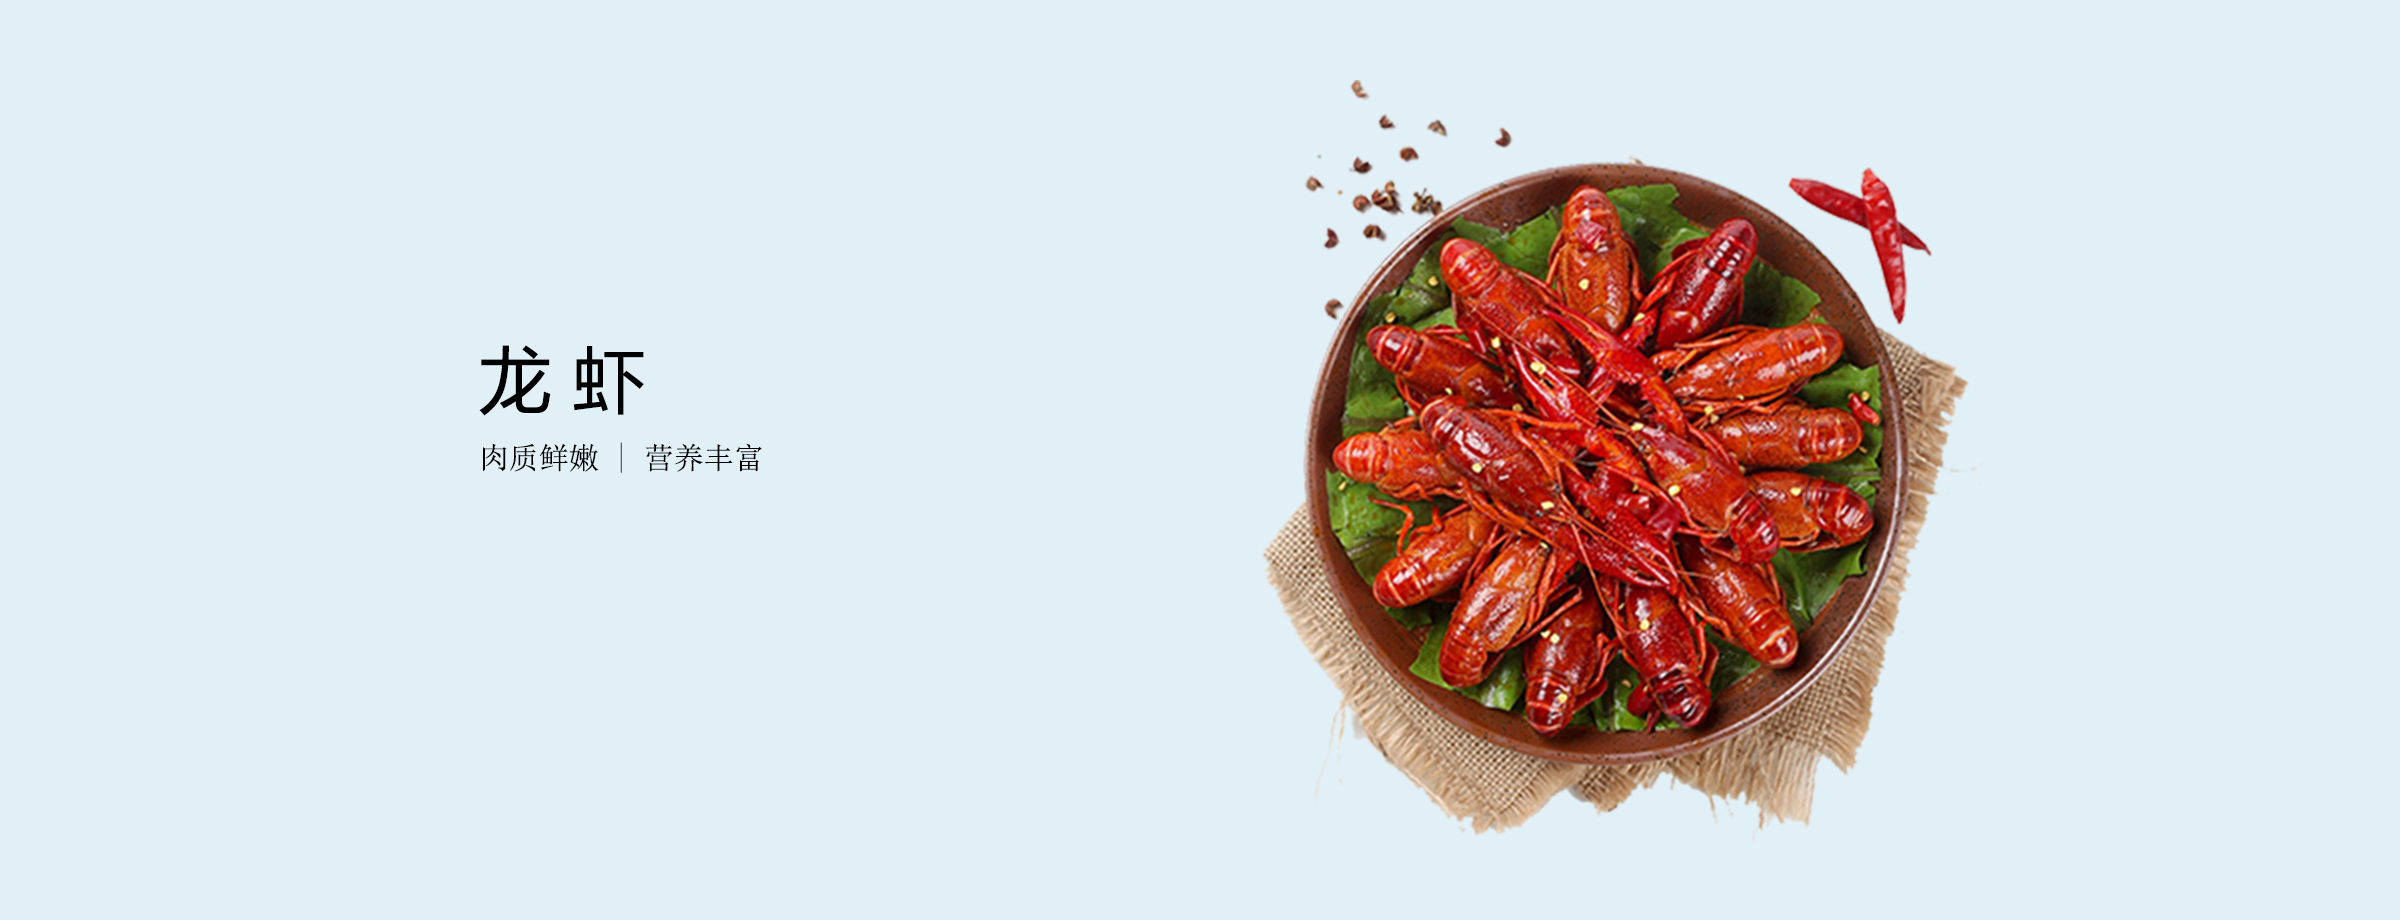
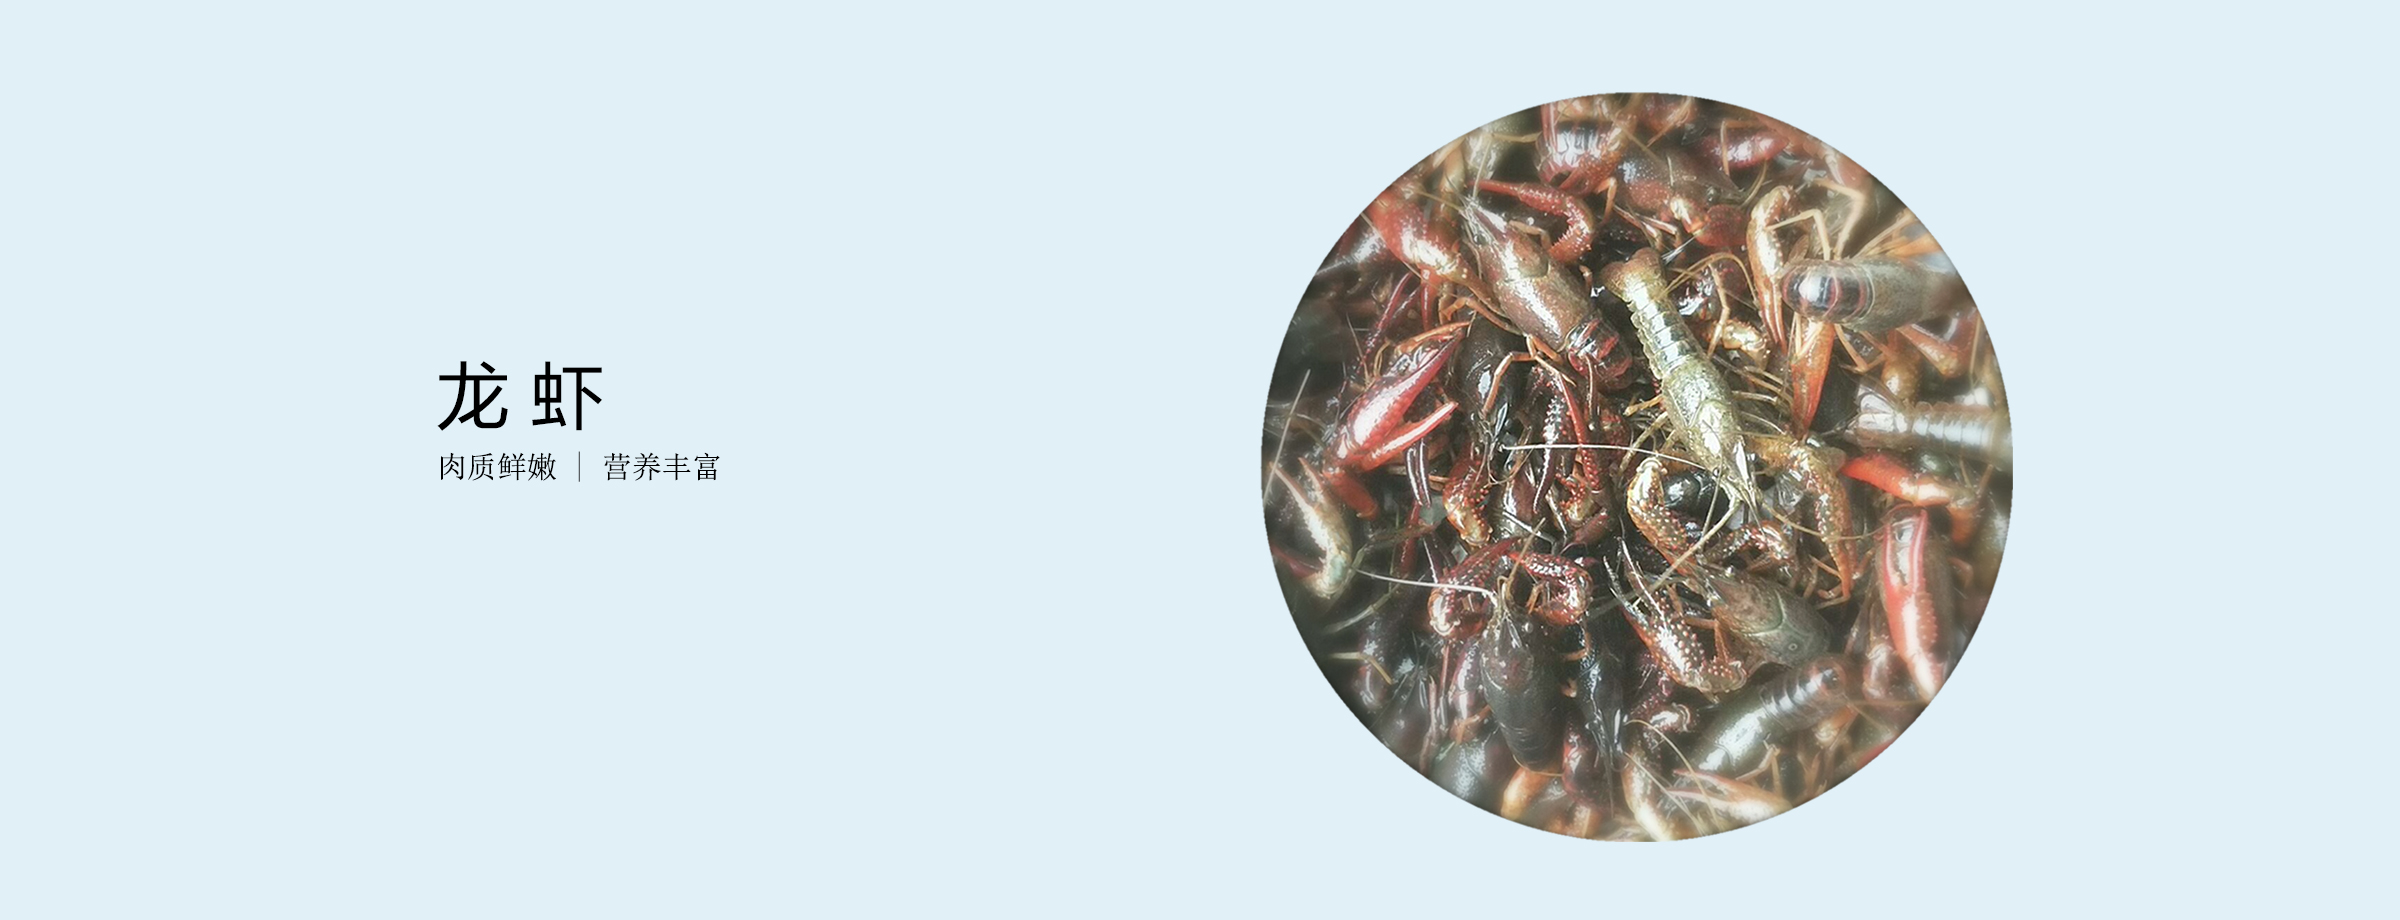
update

Changed region(s): [[0.5, 0.0913, 0.8438, 0.913], [0.1875, 0.3652, 0.3125, 0.5174]]

diff --git a/hotnews1.html b/hotnews1.html
@@ -1,0 +1,280 @@
+<!DOCTYPE html>
+<html lang="en">
+<head>
+    <meta http-equiv="X-UA-Compatible" content="IE=Edge" />
+    <meta charset="UTF-8" />
+    <title>寿县凤宇家庭农场</title>
+    <meta name="description" content="寿县凤宇家庭农场——休闲观光生态园，集龙虾养殖，虾稻共养、休闲观光于一体。销售热线：0554-3168588、173-6439-8856" />
+    <meta name="keywords" content="寿县,农场,龙虾,水稻,养殖" />
+    <meta name="viewport" content="width=1200">
+    <meta http-equiv="x-dns-prefetch-control" content="on">
+    <link rel="stylesheet" href="https://unpkg.com/element-ui/lib/theme-chalk/index.css">
+    <link rel="stylesheet" href="./css/index.css">
+</head>
+<body>
+<el-container id="app">
+    <el-header>
+        <el-row type="flex" justify="space-between">
+            <el-col :span="6">
+                <div>销售热线：0554-3168588、173-6439-8856</div>
+            </el-col>
+        </el-row>
+    </el-header>
+    <el-main>
+        <el-row class="contain" type="flex" justify="space-between">
+            <el-col :span="6">
+                <!--<div class="logo"></div>-->
+                <a href="./index.html"><img :src="img_logo" alt="logo" class="logo"></a>
+            </el-col>
+            <el-col :span="6">
+                <el-menu :default-active="activeIndex" class="el-menu-demo" mode="horizontal">
+                    <el-menu-item index="1"><a href="./index.html">网站首页</a></el-menu-item>
+                    <el-menu-item index="2"><a href="./hotnews.html" style="color: #409EFF">热点资讯</a></el-menu-item>
+                    <el-menu-item index="3"><a href="./contact.html">联系我们</a></el-menu-item>
+                </el-menu>
+            </el-col>
+        </el-row>
+        <el-row class="contain" style="margin-top: -20px">
+            <el-row type="flex" justify="center">
+                <el-col :span="17" class="news-title">
+                    <h1 class="title">
+                        成长中的龙虾
+                    </h1>
+                </el-col>
+            </el-row>
+            <el-row type="flex" justify="center">
+                <el-col :span="8">
+                    <el-card :body-style="{ padding: '0px' }">
+                        <img src="./images/chengzhang1.jpg" class="img-news">
+                        <!--<div style="padding: 14px;">
+                            <span>公虾</span>
+                            <div class="bottom-news clearfix">
+                                <time class="desc">腹部有2个硬的小腿</time>
+                            </div>
+                        </div>-->
+                    </el-card>
+                </el-col>
+
+                <el-col :span="8" class="news-left">
+                        <el-card :body-style="{ padding: '0px' }">
+                            <img src="./images/xia.jpg" class="img-news">
+                            <!--<div style="padding: 14px;">
+                                <span>母虾</span>
+                                <div class="bottom-news clearfix">
+                                    <time class="desc">腹部没有2个硬的小腿</time>
+                                </div>
+                            </div>-->
+                        </el-card>
+                    </el-col>
+            </el-row>
+        </el-row>
+
+        <!--<div class="backcolor-dark">
+            <el-row class="contain">
+                <el-row type="flex" justify="center">
+                    <el-col :span="17" class="news-title">
+                        <h1 class="title">
+                            虾的多种口味
+                        </h1>
+                    </el-col>
+                </el-row>
+                <el-row type="flex" justify="center">
+                    <el-col :span="8" class="news-bottom">
+                        <el-card :body-style="{ padding: '0px' }">
+                            <img src="./images/qingzhengxia.jpg" class="img-news">
+                            <div style="padding: 14px;">
+                                <span>清蒸小龙虾</span>
+                                <div class="bottom-news clearfix">
+                                    <time class="desc">严格按照隔水清蒸，最大限度保留小龙虾的肉质鲜味。</time>
+                                </div>
+                            </div>
+                        </el-card>
+                    </el-col>
+
+                    <el-col :span="8" class="news-left news-bottom">
+                        <el-card :body-style="{ padding: '0px' }">
+                            <img src="./images/bingzhenxia.jpg" class="img-news">
+                            <div style="padding: 14px;">
+                                <span>冰镇小龙虾</span>
+                                <div class="bottom-news clearfix">
+                                    <time class="desc">虾王冰镇，肉质更爽口。</time>
+                                </div>
+                            </div>
+                        </el-card>
+                    </el-col>
+                </el-row>
+                <el-row type="flex" justify="center">
+                    <el-col :span="8" class="news-bottom">
+                        <el-card :body-style="{ padding: '0px' }">
+                            <img src="./images/danhuangxia.jpg" class="img-news">
+                            <div style="padding: 14px;">
+                                <span>咸蛋黄小龙虾</span>
+                                <div class="bottom-news clearfix">
+                                    <time class="desc">咸蛋黄和虾膏完美融合，口感甘香，两者相加大于二的享受。</time>
+                                </div>
+                            </div>
+                        </el-card>
+                    </el-col>
+
+                    <el-col :span="8" class="news-left news-bottom">
+                        <el-card :body-style="{ padding: '0px' }">
+                            <img src="./images/jiaoyanxia.jpg" class="img-news">
+                            <div style="padding: 14px;">
+                                <span>椒盐小龙虾</span>
+                                <div class="bottom-news clearfix">
+                                    <time class="desc">材质要够新鲜，虾肉够饱满。</time>
+                                </div>
+                            </div>
+                        </el-card>
+                    </el-col>
+                </el-row>
+                <el-row type="flex" justify="center">
+                    <el-col :span="8" class="news-bottom">
+                        <el-card :body-style="{ padding: '0px' }">
+                            <img src="./images/shisanxiangxia.jpg" class="img-news">
+                            <div style="padding: 14px;">
+                                <span>十三香小龙虾</span>
+                                <div class="bottom-news clearfix">
+                                    <time class="desc">味道浓郁</time>
+                                </div>
+                            </div>
+                        </el-card>
+                    </el-col>
+
+                    <el-col :span="8" class="news-left news-bottom">
+                        <el-card :body-style="{ padding: '0px' }">
+                            <img src="./images/youmenxia.jpg" class="img-news">
+                            <div style="padding: 14px;">
+                                <span>油焖小龙虾</span>
+                                <div class="bottom-news clearfix">
+                                    <time class="desc">味道浓郁</time>
+                                </div>
+                            </div>
+                        </el-card>
+                    </el-col>
+                </el-row>
+                <el-row type="flex" justify="center">
+                    <el-col :span="8" class="">
+                        <el-card :body-style="{ padding: '0px' }">
+                            <img src="./images/suanrongxia.jpg" class="img-news">
+                            <div style="padding: 14px;">
+                                <span>蒜蓉小龙虾</span>
+                                <div class="bottom-news clearfix">
+                                    <time class="desc">味道浓郁</time>
+                                </div>
+                            </div>
+                        </el-card>
+                    </el-col>
+
+                    <el-col :span="8" class="news-left">
+                        <el-card :body-style="{ padding: '0px' }">
+                            <img src="./images/longxiazhou.jpg" class="img-news">
+                            <div style="padding: 14px;">
+                                <span>小龙虾粥</span>
+                                <div class="bottom-news clearfix">
+                                    <time class="desc">只有新鲜的小龙虾，才能煮出新鲜的小龙虾粥，味道鲜甜。</time>
+                                </div>
+                            </div>
+                        </el-card>
+                    </el-col>
+                </el-row>
+            </el-row>
+            <el-row type="flex" justify="center" class="contain">
+                <el-col :span="17" class="news-title">
+                    <div class="news-tip">
+                        注：本页面部分内容来自网络
+                    </div>
+                </el-col>
+            </el-row>
+        </div>-->
+
+        <el-row type="flex" justify="space-between" class="foot">
+            <el-col :span="5" class="contact">
+                <div class="advert">
+                    <i class="el-icon-star-off icon"></i>品质优良
+                </div>
+            </el-col>
+            <div class="split-vertical"></div>
+            <el-col :span="5" class="contact">
+                <div class="advert">
+                    <i class="el-icon-sold-out icon"></i>价格实惠
+                </div>
+            </el-col>
+            <div class="split-vertical"></div>
+            <el-col :span="5" class="contact">
+                <div class="advert">
+                    <i class="el-icon-picture-outline icon"></i>环境优美
+                </div>
+            </el-col>
+            <div class="split-vertical"></div>
+            <el-col :span="5" class="contact">
+                <div class="advert">
+                    <i class="el-icon-service icon"></i>服务专业
+                </div>
+            </el-col>
+        </el-row>
+        <div class="split-horizontal"></div>
+
+        <el-row type="flex" justify="space-between" class="foot">
+            <el-col :span="7" class="contact">
+                <div class="call">
+                    基地位置
+                </div>
+                <div class="address">
+                    <a href="./contact.html"><i class="el-icon-location-outline icon"></i>安徽省寿县安丰塘镇井亭村井大路与团结渠交叉口</a>
+                </div>
+            </el-col>
+            <div class="split-vertical"></div>
+            <el-col :span="2">
+                <div class="saoyisao">
+                    微信客服
+                </div>
+                <div class="call">
+                    <img src="./images/wechat.jpg" alt="微信" class="wechat">
+                </div>
+            </el-col>
+            <div class="split-vertical"></div>
+            <el-col :span="6">
+                <div class="call">
+                    销售热线
+                </div>
+                <div class="tel">
+                    <a href="tel:0554-3168588">0554-3168588</a>
+                </div>
+                <div class="tel">
+                    <a href="tel:17364398856">173-6439-8856</a>
+                </div>
+            </el-col>
+        </el-row>
+    </el-main>
+    <el-footer>
+        <el-row type="flex" justify="center">
+            <el-col :span="6" :offset="1">
+                <div>版权所有 ©fengyufarm.com 寿县凤宇家庭农场</div>
+            </el-col>
+            <el-col :span="4" :offset="1">
+                <div>网站技术支持：
+                    <svg width="16" height="16" class="qq" xmlns="http://www.w3.org/2000/svg"><path d="M14.496 10.35c-.301-1.705-1.565-2.822-1.565-2.822.18-1.548-.481-1.823-.481-1.823C12.31.915 8.089.998 8 1 7.91.998 3.689.915 3.55 5.705c0 0-.662.275-.481 1.823 0 0-1.264 1.117-1.565 2.822 0 0-.16 2.882 1.445.353 0 0 .36.96 1.022 1.823 0 0-1.183.392-1.083 1.412 0 0-.04 1.136 2.527 1.058 0 0 1.805-.137 2.347-.882h.476c.542.745 2.347.882 2.347.882 2.566.078 2.527-1.058 2.527-1.058.1-1.02-1.083-1.412-1.083-1.412a7.986 7.986 0 0 0 1.022-1.823c1.604 2.529 1.445-.353 1.445-.353z" fill="#B3B3B3" fill-rule="evenodd"></path></svg>
+                    1171286725
+                </div>
+            </el-col>
+        </el-row>
+    </el-footer>
+</el-container>
+</body>
+<!-- import Vue before Element -->
+<script src="https://unpkg.com/vue/dist/vue.js"></script>
+<!-- import JavaScript -->
+<script src="https://unpkg.com/element-ui/lib/index.js"></script>
+<script>
+    new Vue({
+        el: '#app',
+        data: {
+            img_logo: './images/logo1.png',
+            img_xia: './images/longxia.jpg',
+            bannerList: ['./images/banner_xia.jpg'],
+            activeIndex: 1
+        }
+    })
+</script>
+</html>

diff --git a/index.html b/index.html
@@ -26,17 +26,17 @@
                 <!--<div class="logo"></div>-->
                 <a href="./index.html"><img :src="img_logo" alt="logo" class="logo"></a>
             </el-col>
-            <el-col :span="4">
+            <el-col :span="6">
                 <el-menu :default-active="activeIndex" class="el-menu-demo" mode="horizontal">
                     <el-menu-item index="1"><a href="./index.html" style="color: #409EFF">网站首页</a></el-menu-item>
-                    <!--<el-menu-item index="2"><a href="./hotnews.html">热点资讯</a></el-menu-item>-->
+                    <el-menu-item index="2"><a href="./hotnews1.html">热点资讯</a></el-menu-item>
                     <el-menu-item index="3"><a href="./contact.html">联系我们</a></el-menu-item>
                 </el-menu>
             </el-col>
         </el-row>
         <el-row class="contain">
             <el-col>
-                <el-carousel indicator-position="outside" height="460px">
+                <el-carousel indicator-position="outside" height="460px" interval="5000">
                     <el-carousel-item v-for="item in bannerList" :key="item">
                         <img :src="item" alt="轮播" height="460">
                     </el-carousel-item>
@@ -50,11 +50,11 @@
                         龙虾
                     </h1>
                 </el-col>
-                <!--<el-col :span="2" :offset="20">
+                <el-col :span="2" :offset="20">
                     <div class="viewmore">
-                        <a href="./hotnews.html">查看更多 <i class="el-icon-arrow-right"></i></a>
+                        <a href="./hotnews1.html">查看更多 <i class="el-icon-arrow-right"></i></a>
                     </div>
-                </el-col>-->
+                </el-col>
             </el-row>
             <el-row>
                 <el-col :span="18">
@@ -69,7 +69,7 @@
                     </div>
                 </el-col>
                 <el-col :span="5">
-                    <img src="images/xia.jpg" alt="龙虾" class="img">
+                    <img src="images/xia1.jpg" alt="龙虾" class="img">
                 </el-col>
             </el-row>
         </el-row>
@@ -207,9 +207,9 @@
     new Vue({
         el: '#app',
         data: {
-            img_logo: './images/logo1.png',
+            img_logo: './images/logo2.png',
             img_xia: './images/longxia.jpg',
-            bannerList: ['./images/banner.jpg'],
+            bannerList: ['./images/banner_xia.jpg','./images/banner.jpg'],
             activeIndex: 1
         }
     })

diff --git a/contact.html b/contact.html
@@ -26,10 +26,10 @@
                 <!--<div class="logo"></div>-->
                 <a href="./index.html"><img :src="img_logo" alt="logo" class="logo"></a>
             </el-col>
-            <el-col :span="4">
+            <el-col :span="6">
                 <el-menu :default-active="activeIndex" class="el-menu-demo" mode="horizontal">
                     <el-menu-item index="1"><a href="./index.html">网站首页</a></el-menu-item>
-                    <!--<el-menu-item index="2"><a href="./hotnews.html">热点资讯</a></el-menu-item>-->
+                    <el-menu-item index="2"><a href="./hotnews1.html">热点资讯</a></el-menu-item>
                     <el-menu-item index="3"><a href="./contact.html" style="color: #409EFF">联系我们</a></el-menu-item>
                 </el-menu>
             </el-col>

diff --git a/css/index.css b/css/index.css
@@ -45,7 +45,7 @@ a:hover {
 
 .logo {
     height: 60px;
-    margin-left: -40px;
+    margin-left: -5px;
 }
 
 .el-menu--horizontal {
